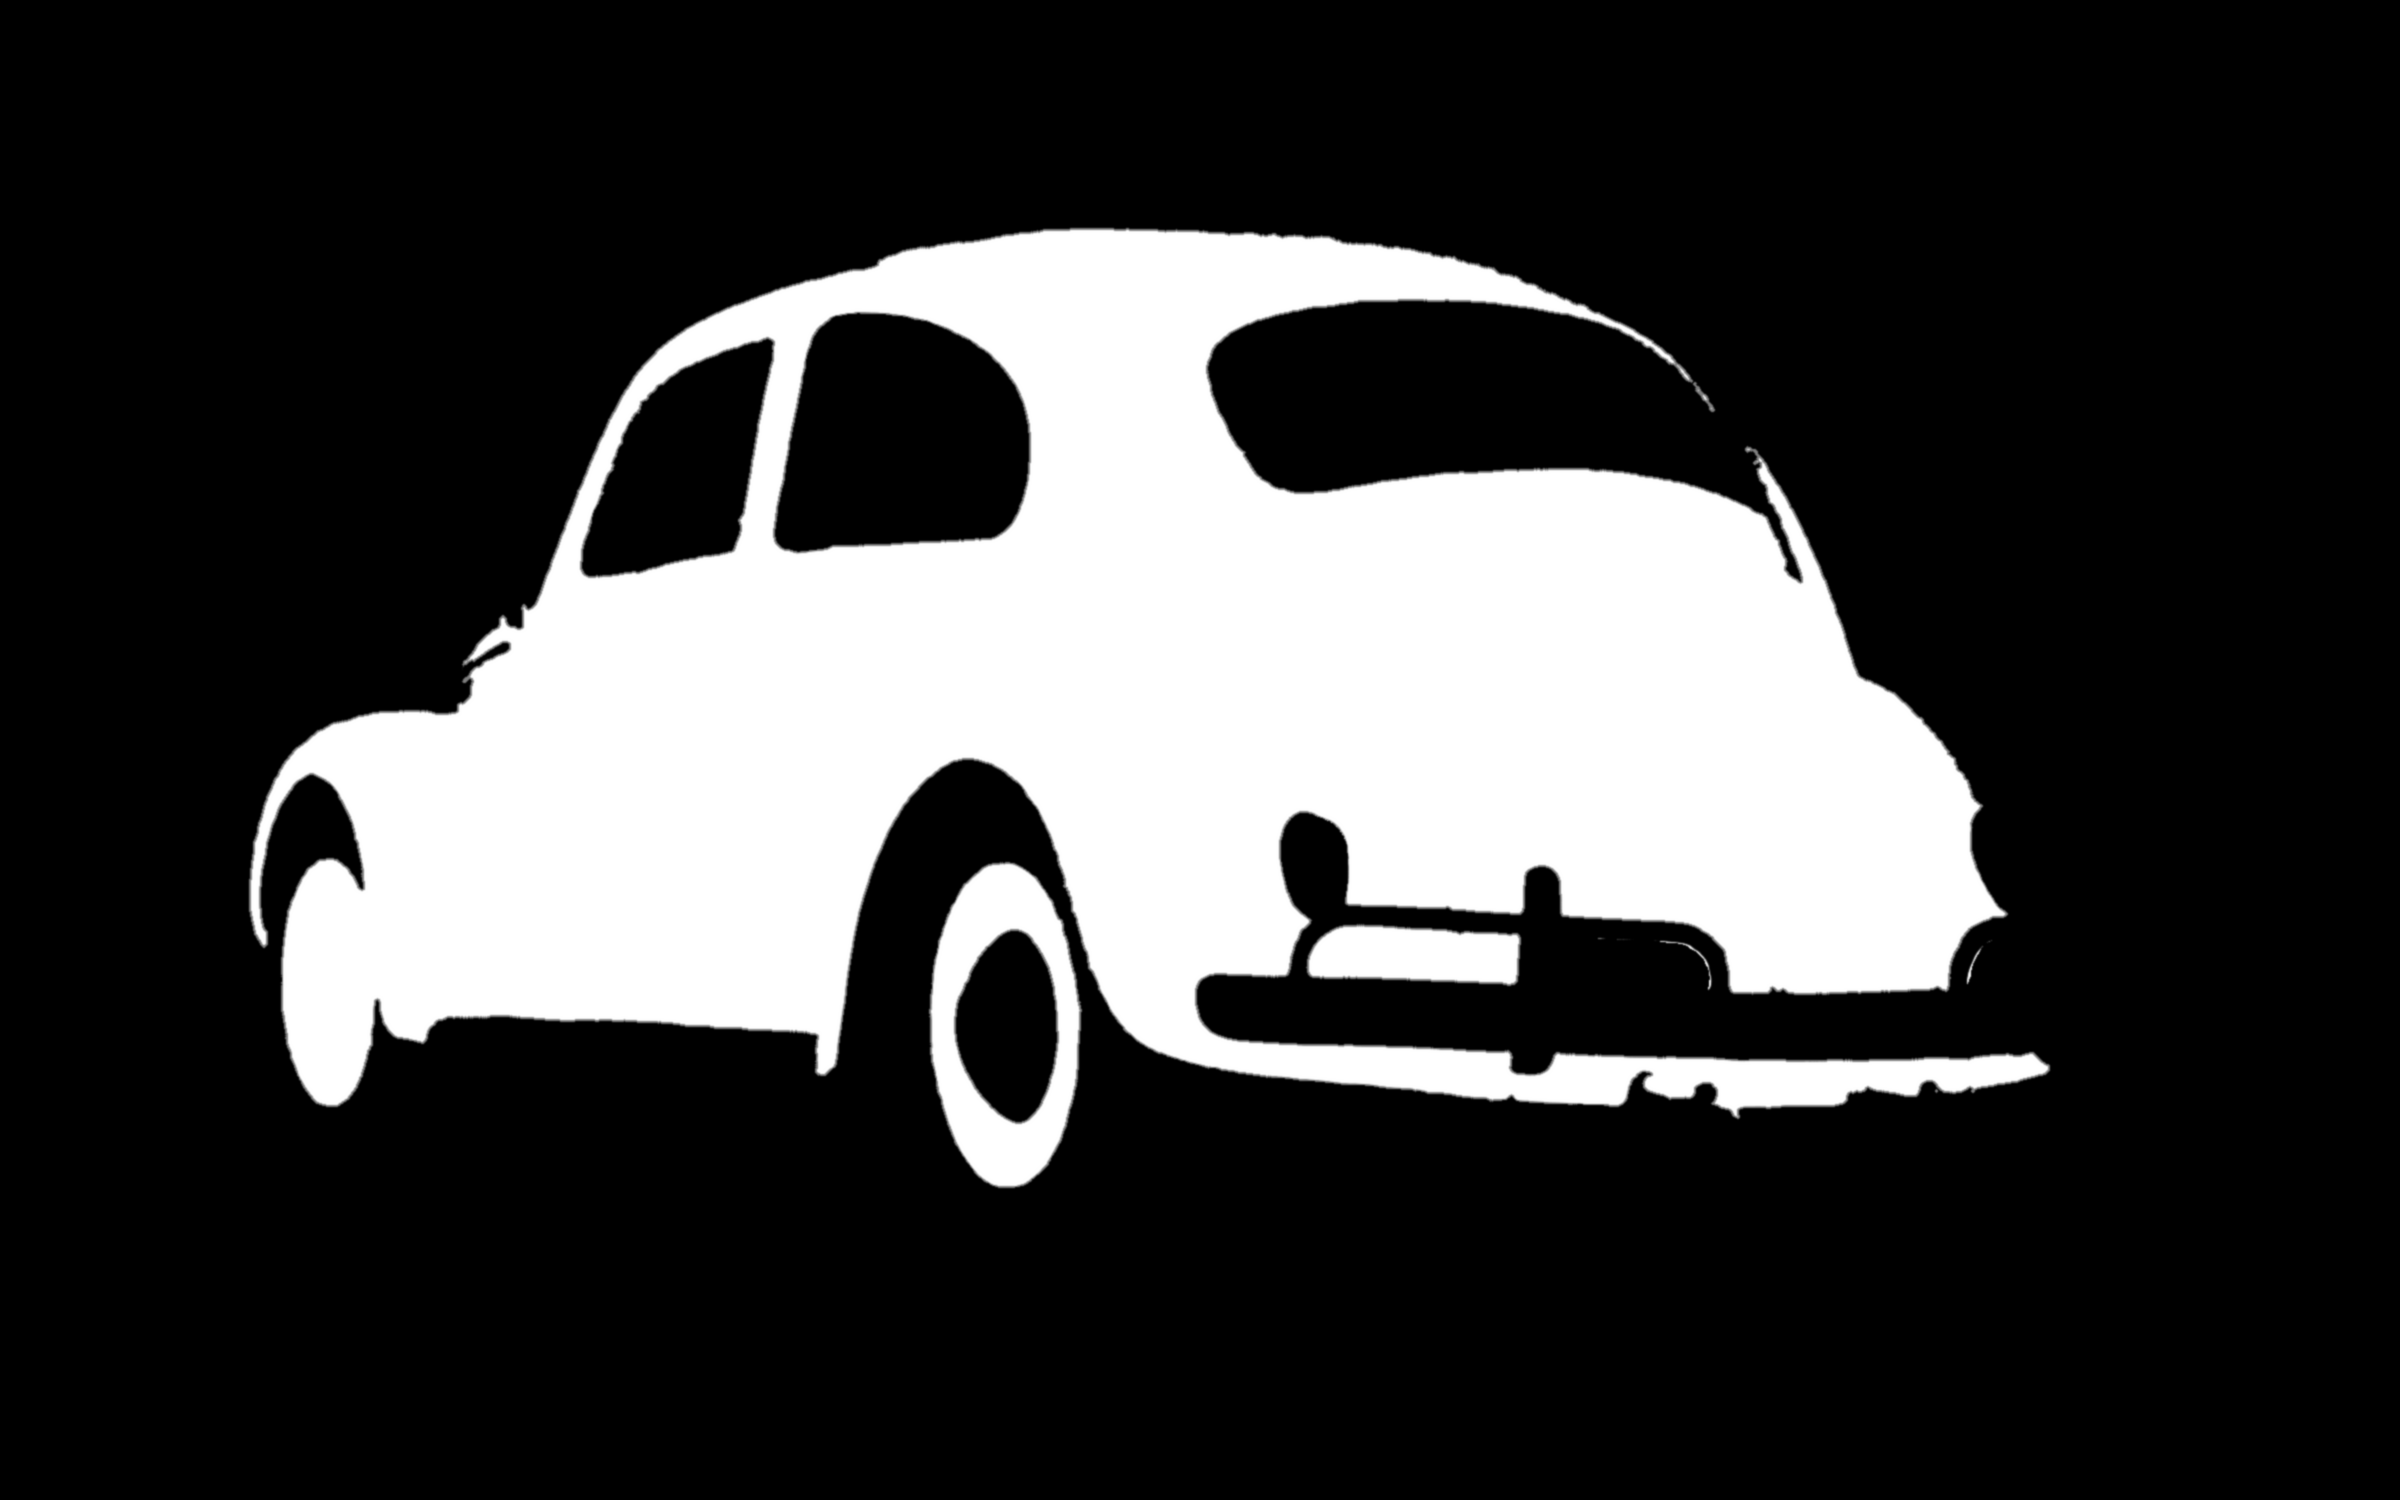
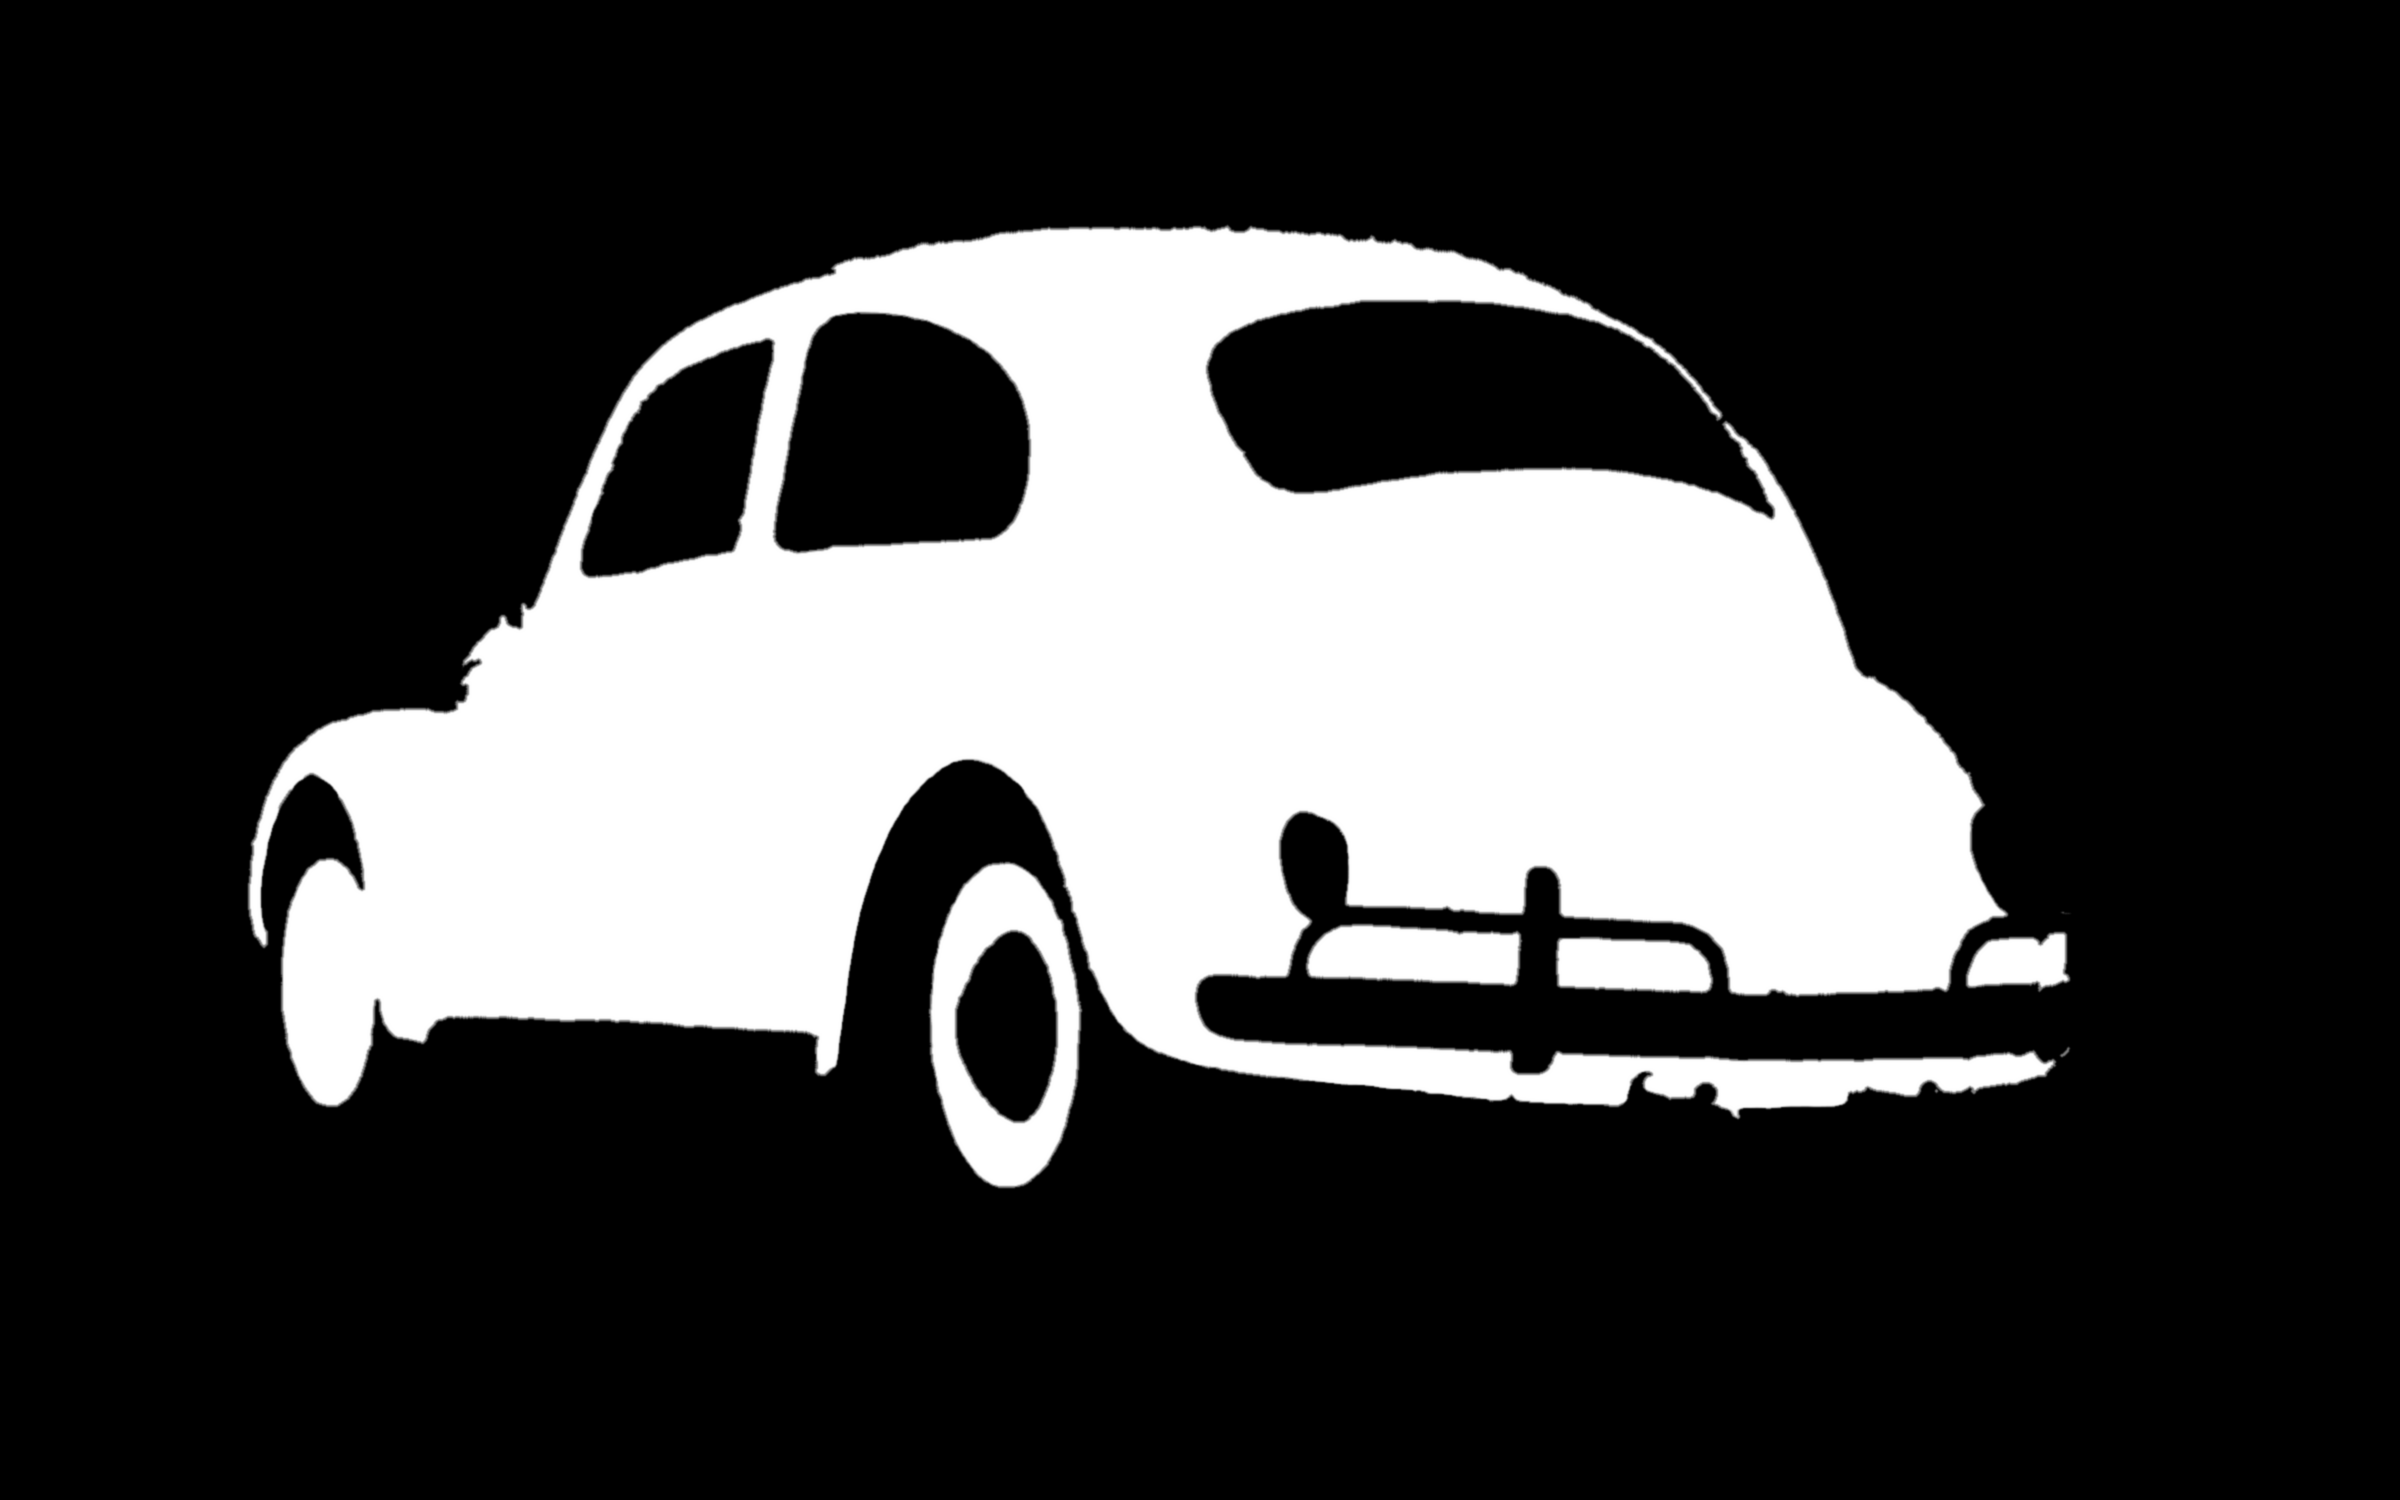
Konfigurator: Lack und Spiegelung getrennt umgerechnet, Masken erfassen Spiegelstreifen und kleine Lackteile
Claude-Session: https://claude.ai/code/session_01VYM2HYM7SGZ4tfKpLsvwsL

diff --git a/taeubert-website/konfigurator.html b/taeubert-website/konfigurator.html
@@ -1700,14 +1700,20 @@
     }
     const med = h => { let acc = 0; for (let k = 0; k < h.length; k++) { acc += h[k]; if (acc >= n / 2) return k / 2; } return 50; };
     const Lm = med(hL), Cm = Math.max(1, med(hC)), Ym = Math.pow((Lm + 16) / 116, 3), tY = Math.pow((tL + 16) / 116, 3);
+    // Farbrauschen der Bildkompression glätten (Sättigung nur über die Lackfläche weichzeichnen)
+    const W = imageData.width, H = imageData.height, CW = new Float32Array(N), WF = new Float32Array(N);
+    for (let p = 0, i = 0; p < N; p++, i += 4) if (mask[i] > 127) { CW[p] = Cs[p]; WF[p] = 1; }
+    const r = Math.max(1, Math.round(Math.max(W, H) / 800));
+    blurMask(CW, W, H, r); blurMask(CW, W, H, r); blurMask(WF, W, H, r); blurMask(WF, W, H, r);
     for (let p = 0, i = 0; p < N; p++, i += 4) {
       const m = mask[i]; if (m < 4) continue;
-      const w = m / 255, L = Ls[p], k = Math.min(Cs[p] / Cm, 1);
-      const Y = Math.pow((L + 16) / 116, 3);   // Helligkeit linear wie Licht: Schatten multiplikativ (Schwarz bleibt schwarz), Glanz zur Weiß-Seite
-      const nY = Y <= Ym ? tY * Y / Ym : tY + (1 - tY) * (Y - Ym) / Math.max(1 - Ym, 1e-3);
+      const w = m / 255, L = Ls[p], D = Math.min(1.4, (WF[p] > 0.001 ? CW[p] / WF[p] : Cs[p]) / Cm), k = Math.min(D, 1);
+      // Licht auf dem Lack und farblose Spiegelung trennen: neu = Zielfarbe × Licht + Spiegelung (auf hellem Lack schwächer)
+      const Y = Math.pow((L + 16) / 116, 3), Yr = Math.min(1.4, Y / Ym), shade = Math.sqrt(Math.max(D, 0.02) * Math.max(Yr, 0.02));
+      const nY = tY * shade + Math.max(0, Y - Ym * shade) * (1 - 0.6 * tY);
       const nL = Math.max(0, Math.min(100, 116 * Math.cbrt(Math.max(0, Math.min(1, nY))) - 16));
-      const [r, g, b] = lab2rgb(nL, tA * k, tB * k);
-      d[i] = Math.round(d[i] * (1 - w) + r * w); d[i + 1] = Math.round(d[i + 1] * (1 - w) + g * w); d[i + 2] = Math.round(d[i + 2] * (1 - w) + b * w);
+      const [rr, gg, bb] = lab2rgb(nL, tA * k, tB * k);
+      d[i] = Math.round(d[i] * (1 - w) + rr * w); d[i + 1] = Math.round(d[i + 1] * (1 - w) + gg * w); d[i + 2] = Math.round(d[i + 2] * (1 - w) + bb * w);
     }
   }
   async function loadMask(url, w, h) {

diff --git a/taeubert-website/build_pages.py b/taeubert-website/build_pages.py
@@ -2419,14 +2419,20 @@ KONFIG_JS = r"""
     }
     const med = h => { let acc = 0; for (let k = 0; k < h.length; k++) { acc += h[k]; if (acc >= n / 2) return k / 2; } return 50; };
     const Lm = med(hL), Cm = Math.max(1, med(hC)), Ym = Math.pow((Lm + 16) / 116, 3), tY = Math.pow((tL + 16) / 116, 3);
+    // Farbrauschen der Bildkompression glätten (Sättigung nur über die Lackfläche weichzeichnen)
+    const W = imageData.width, H = imageData.height, CW = new Float32Array(N), WF = new Float32Array(N);
+    for (let p = 0, i = 0; p < N; p++, i += 4) if (mask[i] > 127) { CW[p] = Cs[p]; WF[p] = 1; }
+    const r = Math.max(1, Math.round(Math.max(W, H) / 800));
+    blurMask(CW, W, H, r); blurMask(CW, W, H, r); blurMask(WF, W, H, r); blurMask(WF, W, H, r);
     for (let p = 0, i = 0; p < N; p++, i += 4) {
       const m = mask[i]; if (m < 4) continue;
-      const w = m / 255, L = Ls[p], k = Math.min(Cs[p] / Cm, 1);
-      const Y = Math.pow((L + 16) / 116, 3);   // Helligkeit linear wie Licht: Schatten multiplikativ (Schwarz bleibt schwarz), Glanz zur Weiß-Seite
-      const nY = Y <= Ym ? tY * Y / Ym : tY + (1 - tY) * (Y - Ym) / Math.max(1 - Ym, 1e-3);
+      const w = m / 255, L = Ls[p], D = Math.min(1.4, (WF[p] > 0.001 ? CW[p] / WF[p] : Cs[p]) / Cm), k = Math.min(D, 1);
+      // Licht auf dem Lack und farblose Spiegelung trennen: neu = Zielfarbe × Licht + Spiegelung (auf hellem Lack schwächer)
+      const Y = Math.pow((L + 16) / 116, 3), Yr = Math.min(1.4, Y / Ym), shade = Math.sqrt(Math.max(D, 0.02) * Math.max(Yr, 0.02));
+      const nY = tY * shade + Math.max(0, Y - Ym * shade) * (1 - 0.6 * tY);
       const nL = Math.max(0, Math.min(100, 116 * Math.cbrt(Math.max(0, Math.min(1, nY))) - 16));
-      const [r, g, b] = lab2rgb(nL, tA * k, tB * k);
-      d[i] = Math.round(d[i] * (1 - w) + r * w); d[i + 1] = Math.round(d[i + 1] * (1 - w) + g * w); d[i + 2] = Math.round(d[i + 2] * (1 - w) + b * w);
+      const [rr, gg, bb] = lab2rgb(nL, tA * k, tB * k);
+      d[i] = Math.round(d[i] * (1 - w) + rr * w); d[i + 1] = Math.round(d[i + 1] * (1 - w) + gg * w); d[i + 2] = Math.round(d[i + 2] * (1 - w) + bb * w);
     }
   }
   async function loadMask(url, w, h) {
